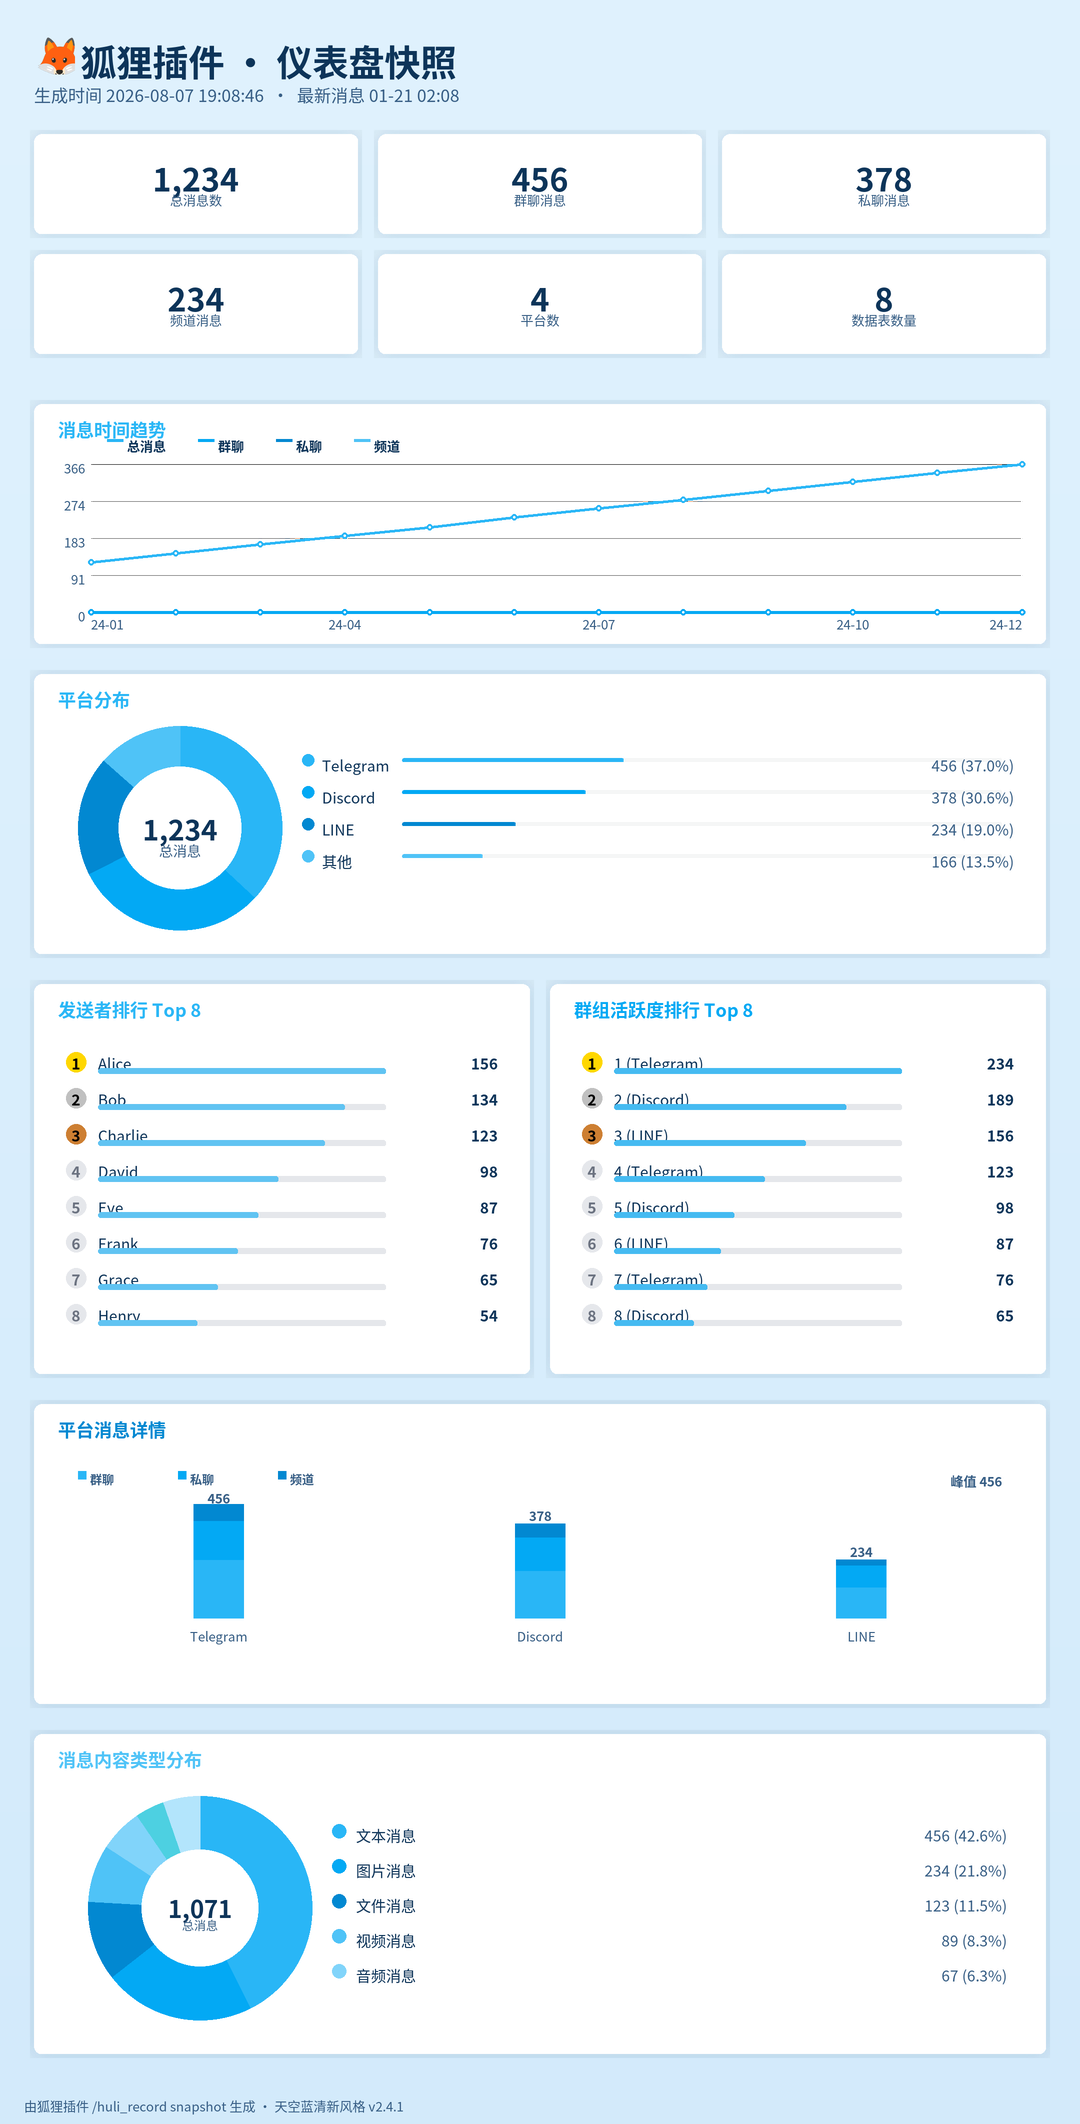
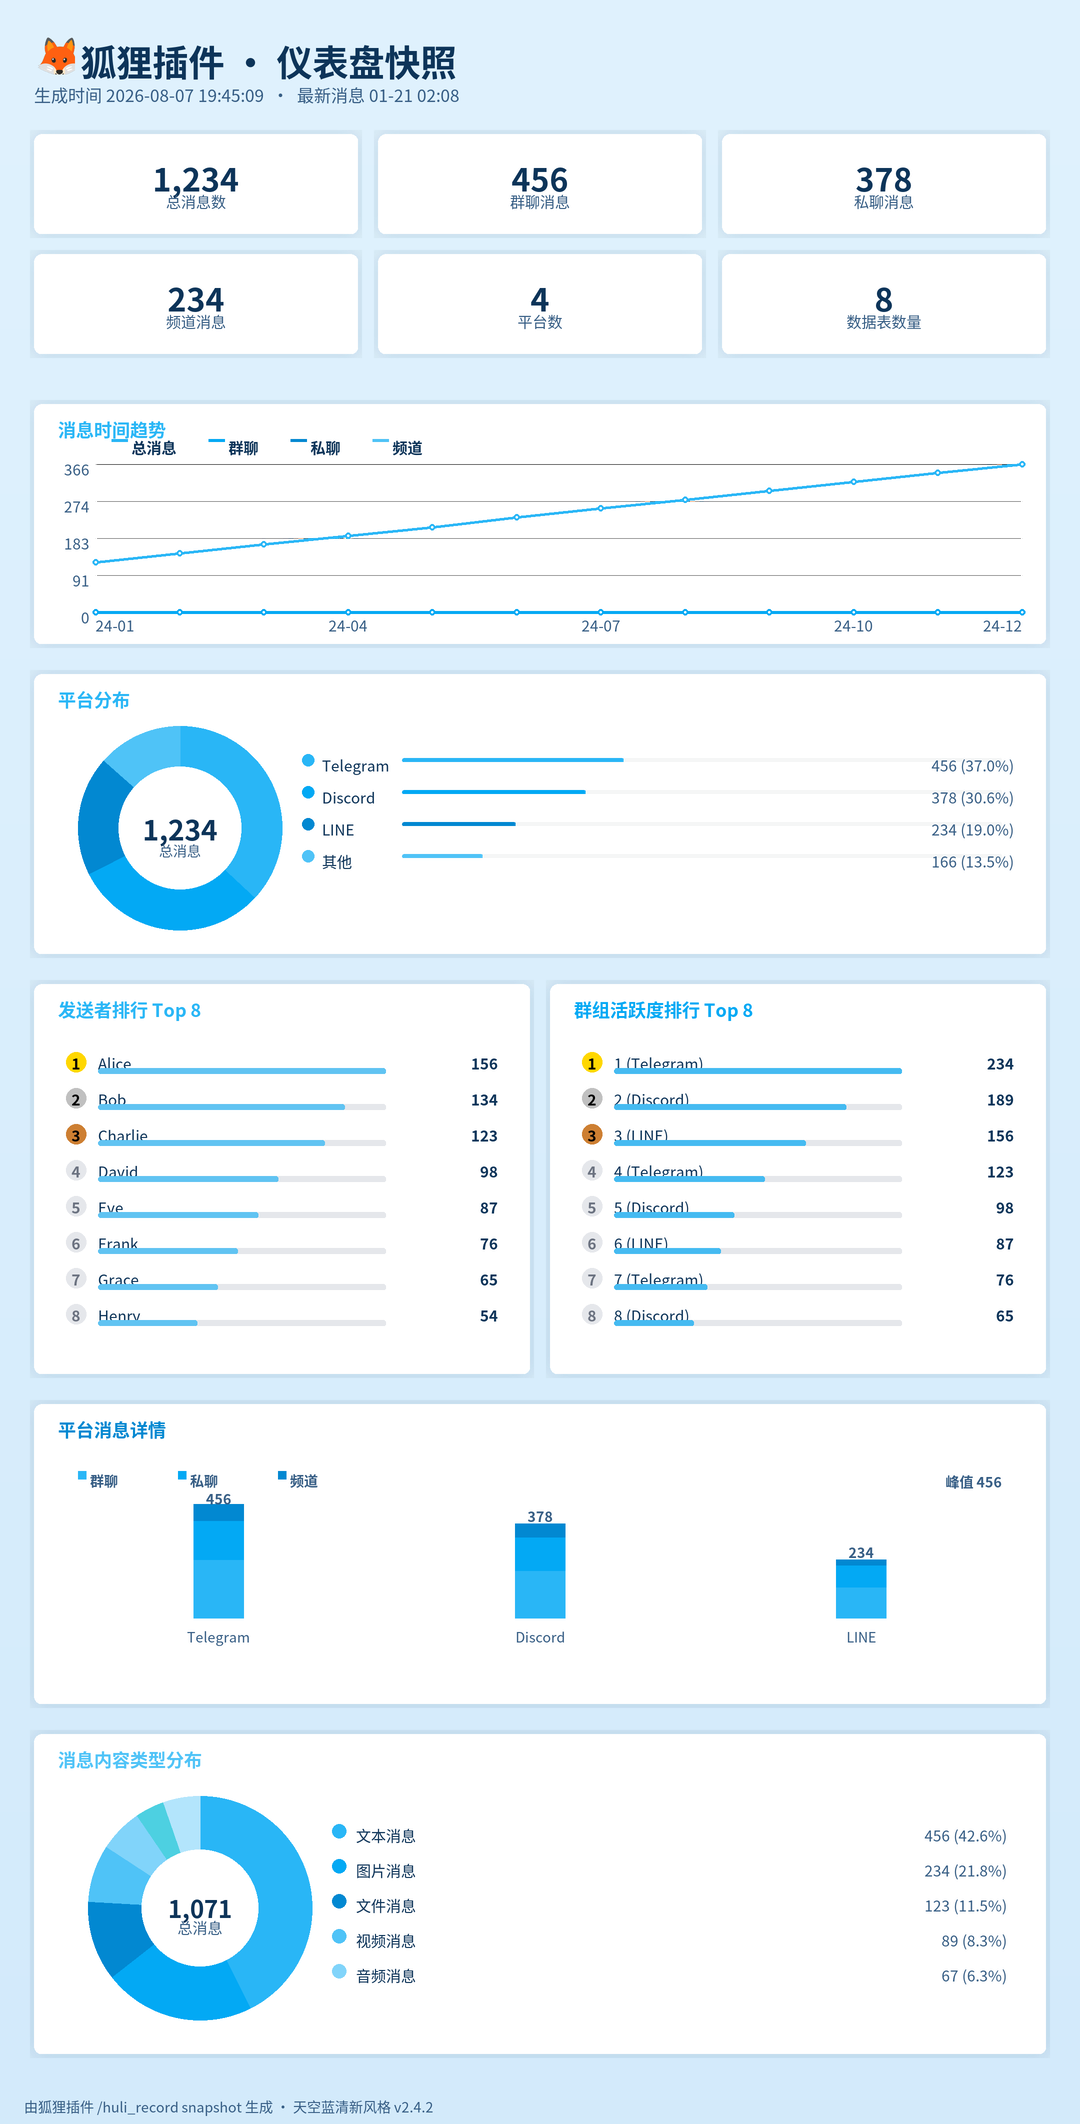
修复WebUI平台分布紫色并提升快照文字清晰度，升级v2.4.3

diff --git a/pages/recorder/app.js b/pages/recorder/app.js
@@ -1,5 +1,5 @@
 const bridge = window.AstrBotPluginPage;
-const BUILD_VERSION = '2.4.2';
+const BUILD_VERSION = '2.4.3';
 
 let bridgeReady = false;
 let pluginContext = null;
@@ -733,6 +733,7 @@ function updatePlatformChart(platformStats) {
   const mobile = window.innerWidth <= 768;
   platformChart.setOption({
     tooltip: { trigger: 'item', formatter: '{b}: {c} ({d}%)' },
+    color: ['#29b6f6', '#03a9f4', '#0288d1', '#4fc3f7', '#81d4fa', '#4dd0e1', '#64b5f6', '#90caf9'],
     legend: mobile
       ? { orient: 'horizontal', type: 'scroll', bottom: 0, left: 'center',
           itemWidth: 10, itemHeight: 10, itemGap: 8, pageIconSize: 9,

diff --git a/pages/recorder/index.html b/pages/recorder/index.html
@@ -7,7 +7,7 @@
   <meta name="apple-mobile-web-app-capable" content="yes" />
   <meta name="apple-mobile-web-app-status-bar-style" content="default" />
   <title>狐狸插件</title>
-  <link rel="stylesheet" href="./style.css?v=2.4.2" />
+  <link rel="stylesheet" href="./style.css?v=2.4.3" />
 </head>
 <body>
   <nav class="navbar">

diff --git a/fox_toolbox/snapshot_renderer.py b/fox_toolbox/snapshot_renderer.py
@@ -494,7 +494,7 @@ def _draw_stat_cards(img, y, stats: MessageStats, db_table_count: int):
         card_content = _draw_glass_card(img, (cx, cy, cx + card_w, cy + card_h), accent=color)
         
         f_val = _get_font(_PX(32), bold=True)
-        f_lbl = _get_font(_PX(13))
+        f_lbl = _get_font(_PX(15))
         val_str = f"{values[idx]:,}" if isinstance(values[idx], int) else str(values[idx])
         
         # 数值文字（居中）
@@ -547,7 +547,7 @@ def _draw_timeline(img, xy, timeline: List[Dict]):
     max_c = max(max_c, 1)
 
     # 计算Y轴标签最大宽度，为标签预留空间，避免超出卡片边框
-    f_axis = _get_font(_PX(13))
+    f_axis = _get_font(_PX(15))
     axis_w = 0
     for g in range(5):
         value = int(max_c * (1 - g / 4))
@@ -594,7 +594,7 @@ def _draw_timeline(img, xy, timeline: List[Dict]):
                        fill=_BG_WHITE, outline=color, width=_PX(2))
 
     # 绘制图例
-    f_legend = _get_font(_PX(13), bold=True)
+    f_legend = _get_font(_PX(15), bold=True)
     lx = plot_x0 + _PX(16)
     ly = y0 - _PX(20)
     
@@ -607,7 +607,7 @@ def _draw_timeline(img, xy, timeline: List[Dict]):
         lx += _PX(36) + lw + _PX(16)
 
     # 绘制X轴标签
-    f_lbl = _get_font(_PX(13))
+    f_lbl = _get_font(_PX(15))
     label_indices = list(range(n)) if n <= 8 else [0, n // 4, n // 2, 3 * n // 4, n - 1]
     
     for i in label_indices:
@@ -880,7 +880,7 @@ def _draw_content_types(img, xy, content_types: List[Dict]):
 
     total_str = f"{total:,}"
     f_total = _get_font(_PX(24), bold=True)
-    f_total_lbl = _get_font(_PX(12))
+    f_total_lbl = _get_font(_PX(15))
     total_w = _text_width(draw, total_str, f_total)
     _draw_text(draw, (cx - total_w / 2, cy - _PX(18)), total_str, f_total, _TEXT_DARK, img)
     total_lbl = "总消息"
@@ -976,7 +976,7 @@ def _draw_platform_detail(img, xy, platforms: List[Dict]):
 
     # 绘制图例
     legend_y = y0 + _PX(15)
-    f_legend = _get_font(_PX(12), bold=True)
+    f_legend = _get_font(_PX(14), bold=True)
     
     for idx, (label, key, color) in enumerate(series_defs):
         legend_x_pos = x0 + _PX(20) + idx * _PX(100)
@@ -989,13 +989,13 @@ def _draw_platform_detail(img, xy, platforms: List[Dict]):
         _draw_text(draw, (legend_x_pos + _PX(12), legend_y - _PX(1)), label, f_legend, _TEXT_MEDIUM, img)
 
     # 绘制峰值标注
-    peak_font = _get_font(_PX(13), bold=True)
+    peak_font = _get_font(_PX(14), bold=True)
     peak_text = f"峰值 {max_total:,}"
     _draw_text(draw, (x1 - _text_width(draw, peak_text, peak_font) - _PX(20), y0 + _PX(15)), 
               peak_text, peak_font, _TEXT_MEDIUM, img)
 
     # 绘制柱状图
-    f_val = _get_font(_PX(13), bold=True)
+    f_val = _get_font(_PX(14), bold=True)
     for i, p in enumerate(display_platforms):
         cx_bar = x0 + slot_w * i + (slot_w - bar_w) / 2
         total = seg_total(p)
@@ -1028,7 +1028,7 @@ def _draw_platform_detail(img, xy, platforms: List[Dict]):
         _draw_text(draw, (cx_bar + bar_w / 2 - tw / 2, label_y), total_str, f_val, _TEXT_MEDIUM, img)
 
     # X轴平台名标签 - 确保所有平台标签都显示
-    f_lbl = _get_font(_PX(13))
+    f_lbl = _get_font(_PX(14))
     for i, p in enumerate(display_platforms):
         label = _truncate(draw, _sanitize_label(p.get("platform_name") or p.get("platform")), f_lbl, int(slot_w - _PX(8)))
         lw = _text_width(draw, label, f_lbl)
@@ -1153,8 +1153,8 @@ def render_snapshot(
 
     # 8. 底部水印
     draw = ImageDraw.Draw(img)
-    watermark_text = "由狐狸插件 /huli_record snapshot 生成 · 天空蓝清新风格 v2.4.2"
-    f_watermark = _get_font(_PX(13))
+    watermark_text = "由狐狸插件 /huli_record snapshot 生成 · 天空蓝清新风格 v2.4.3"
+    f_watermark = _get_font(_PX(14))
     _draw_text(draw, (_PX(24), y + _PX(12)), watermark_text, f_watermark, _TEXT_MEDIUM, img)
 
     # 9. 最终处理

diff --git a/README.md b/README.md
@@ -5,7 +5,7 @@
 [![AstrBot](https://img.shields.io/badge/AstrBot-%3E4.16%2C%3C5-blue?style=for-the-badge)](https://github.com/Soulter/astrbot)
 [![Python](https://img.shields.io/badge/Python-3.12+-green?style=for-the-badge)](https://www.python.org/)
 [![License](https://img.shields.io/badge/License-AGPL--3.0-blue?style=for-the-badge)](LICENSE)
-[![Version](https://img.shields.io/badge/Version-2.4.2-orange?style=for-the-badge)](CHANGELOG.md)
+[![Version](https://img.shields.io/badge/Version-2.4.3-orange?style=for-the-badge)](CHANGELOG.md)
 
 **全平台聊天消息自动记录 | MySQL 5.7 存储 | Web 管理面板 | 全文搜索 | 插件 API**
 
@@ -547,6 +547,11 @@ ruff format .
 ---
 
 ## 📝 更新日志
+
+### v2.4.3（2026-08-07）
+
+- **修复 WebUI 平台分布图 QQ 显示为紫色**：平台分布饼图显式指定天空蓝色板，与快照配色一致
+- **快照整体文字清晰度提升**：各卡片小字号文字统一增大，压缩后更易读
 
 ### v2.4.2（2026-08-07）
 

diff --git a/CHANGELOG.md b/CHANGELOG.md
@@ -5,6 +5,14 @@ All notable changes to this project will be documented in this file.
 The format is based on [Keep a Changelog](https://keepachangelog.com/en/1.1.0/),
 and this project adheres to [Semantic Versioning](https://semver.org/spec/v2.0.0.html).
 
+## [2.4.3] - 2026-08-07
+
+### Fixed
+- **修复 WebUI 平台分布图 QQ 显示为紫色**：平台分布饼图此前未指定颜色，使用了 ECharts 默认调色板（首个颜色为蓝紫 #5470c6）。现已显式指定天空蓝色板，与快照配色完全一致
+
+### Changed
+- **快照整体文字清晰度提升**：统计卡标签、时间趋势轴刻度与图例、内容类型中心标签、平台详情图例/峰值/柱顶数值/X 轴标签、水印等小字号文字统一增大，压缩后的聊天快照更易读
+
 ## [2.4.2] - 2026-08-07
 
 ### Changed
